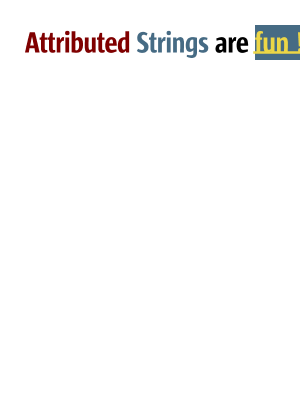
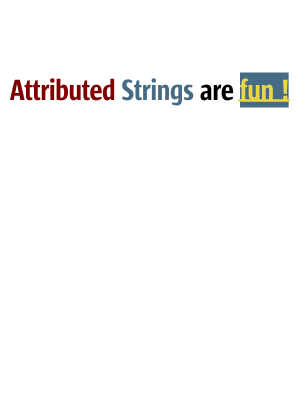
Implemented SVGGraphics2D.drawString(ACI,x,y). PR: Obtained from: Submitted by: Reviewed by:
git-svn-id: https://svn.apache.org/repos/asf/xmlgraphics/batik/trunk@200331 13f79535-47bb-0310-9956-ffa450edef68

Changed region(s): [[0.03, 0.18, 0.99, 0.27], [0.09, 0.06, 0.69, 0.15], [0.72, 0.06, 1.0, 0.15]]

diff --git a/test-sources/org/apache/batik/svggen/AttributedCharacterIterator.java b/test-sources/org/apache/batik/svggen/AttributedCharacterIterator.java
@@ -114,12 +114,13 @@ public class AttributedCharacterIterator implements Painter {
         styledText.addAttribute(TextAttribute.BACKGROUND, new Color(70, 107, 132), 23, 28);
 
         java.text.AttributedCharacterIterator iter = styledText.getIterator();
-        TextLayout layout = new TextLayout(iter, frc);
+        /*TextLayout layout = new TextLayout(iter, frc);
 
         Rectangle bounds = layout.getBounds().getBounds();
         bounds.width += 50;
         bounds.height += 50;
 
-        layout.draw(g, 25, layout.getAscent() + 25);
+        layout.draw(g, 25, layout.getAscent() + 25);*/
+        g.drawString(iter, 10, 100);
     }
 }

diff --git a/sources/org/apache/batik/svggen/SVGGraphics2D.java b/sources/org/apache/batik/svggen/SVGGraphics2D.java
@@ -1056,8 +1056,8 @@ public class SVGGraphics2D extends AbstractGraphics2D
      */
     public void drawString(AttributedCharacterIterator iterator,
                            float x, float y) {
-        generatorCtx.errorHandler.
-            handleError(new SVGGraphics2DRuntimeException(ERR_ACI));
+        TextLayout layout = new TextLayout(iterator, getFontRenderContext());
+        layout.draw(this, x, y);
     }
 
 
